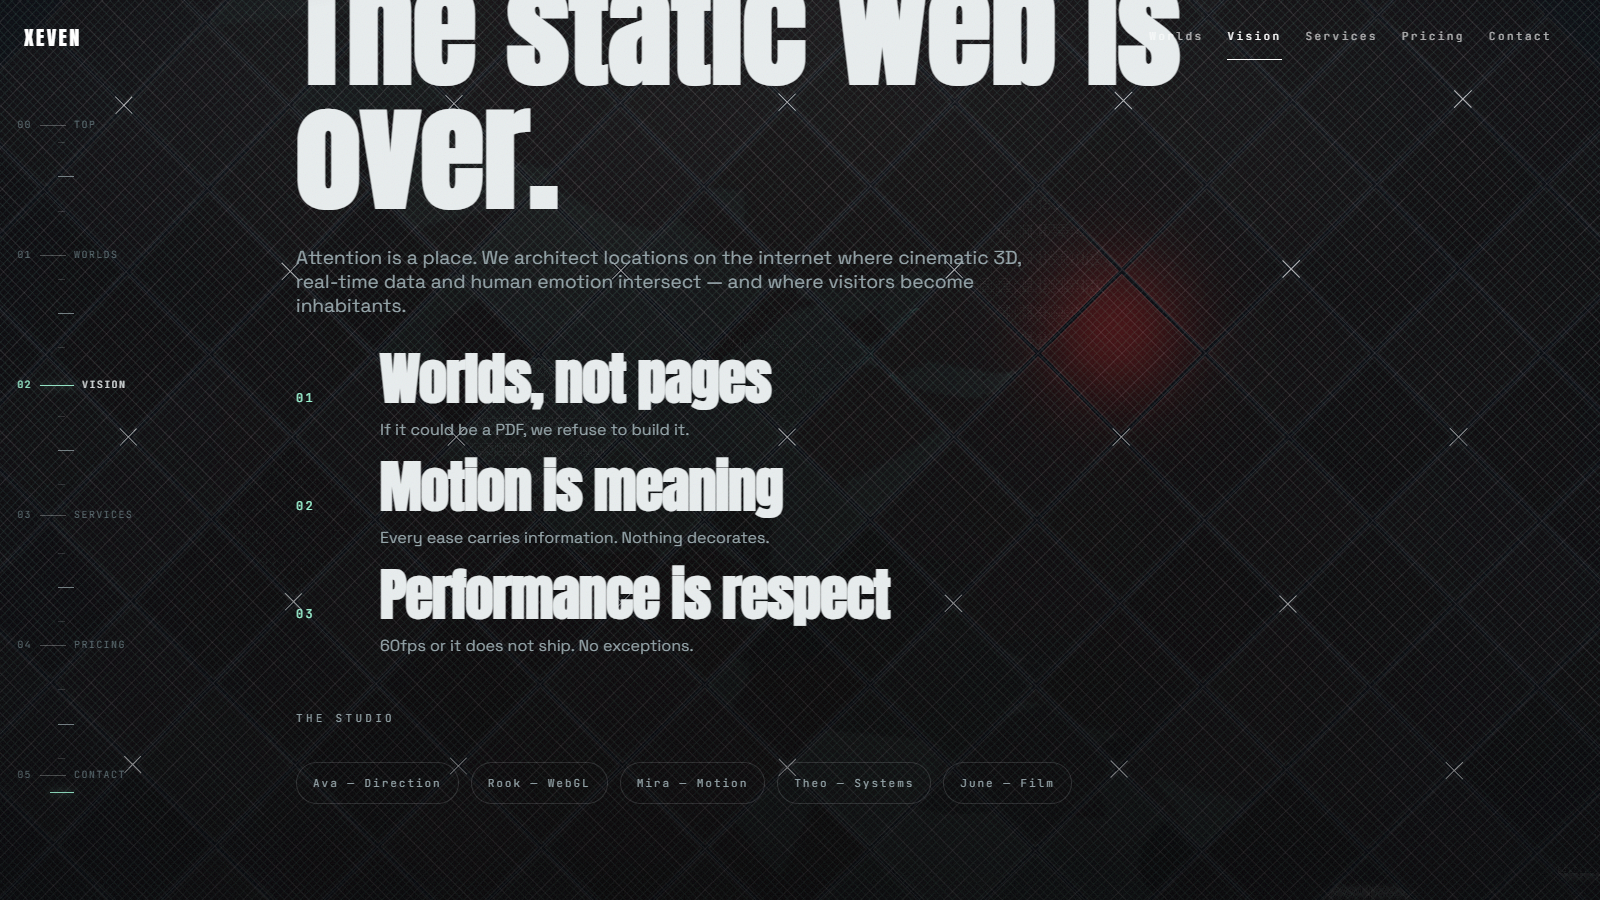
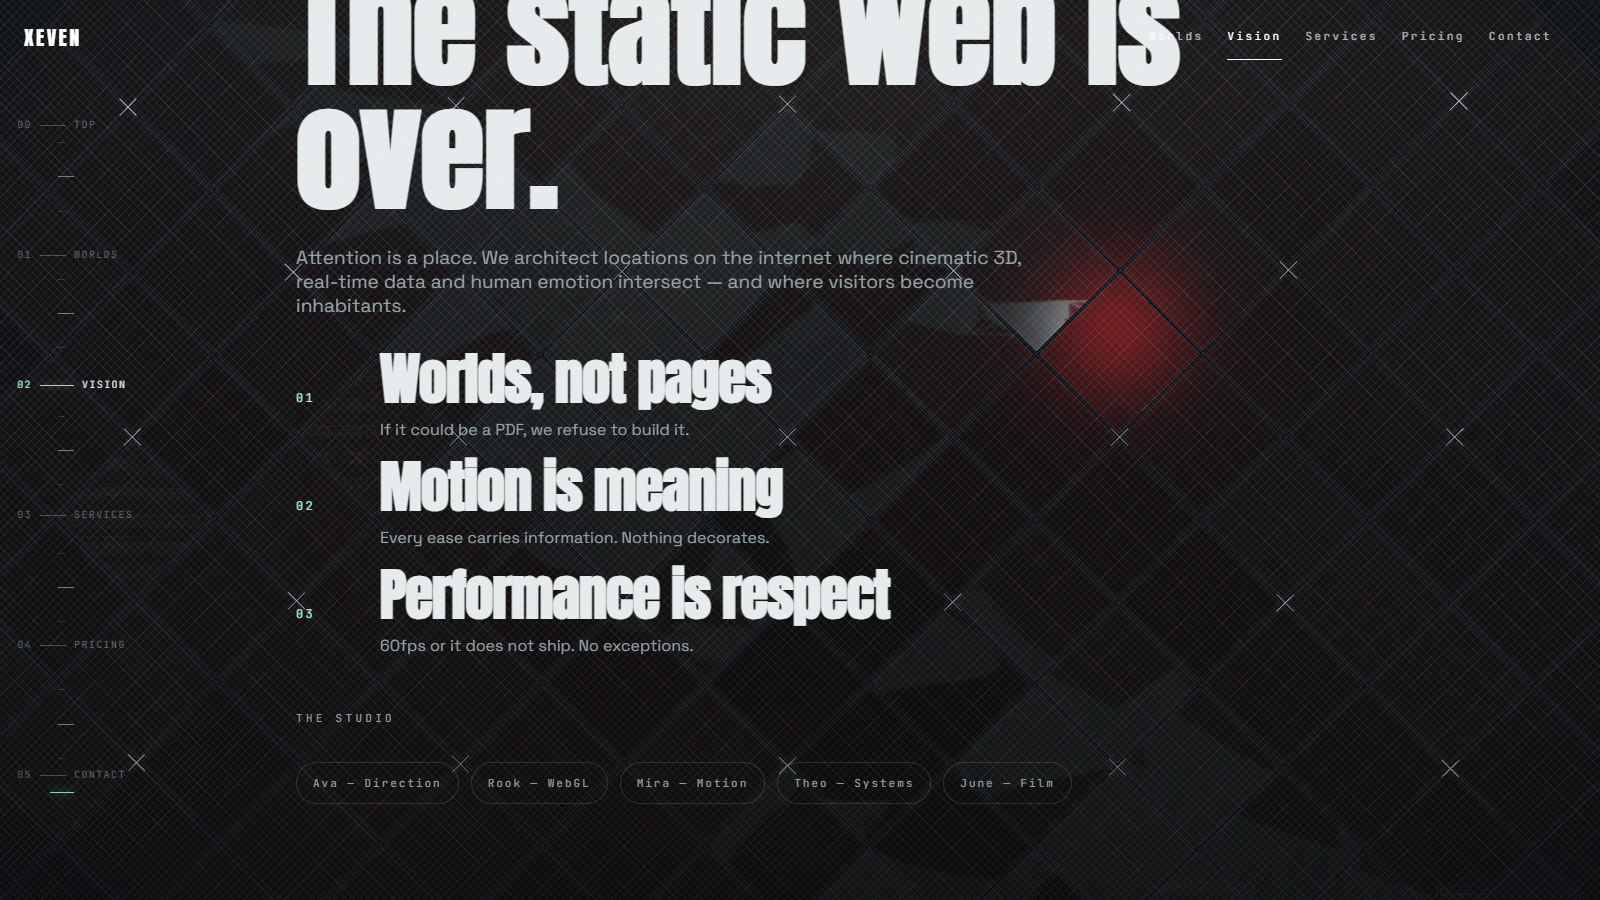
Revert Index v2 BURST, restore hero-only index with woven film

diff --git a/src/pages/EnterStage.tsx b/src/pages/EnterStage.tsx
@@ -2,67 +2,43 @@ import { useLayoutEffect, useRef, useState } from 'react'
 import gsap from 'gsap'
 import { ScrollTrigger } from 'gsap/ScrollTrigger'
 import { SplitText } from 'gsap/SplitText'
-import FilmStage from '../components/FilmStage'
 import { xs } from '../app/store'
 gsap.registerPlugin(ScrollTrigger, SplitText)
 
-/* Index v2 — BURST: the model is the hero. Sharp stage film up top,
-   anatomy stations on the descent, rotation-study cards, contact finale.
-   One timeline per property, transform/opacity only, lazy render. */
-
-const PARTS = [
-  {
-    n: '01',
-    t: 'Halo',
-    d: 'Starburst crown in sparse white linework — ten thousand sticks pretending to be ten million.',
-  },
-  {
-    n: '02',
-    t: 'Visor',
-    d: 'Smoked dark, drawn by absence. The face is what the lines refuse to say.',
-  },
-  {
-    n: '03',
-    t: 'Grin',
-    d: 'Gap-tooth grin over a ∇ torso. Friendly the way a signal flare is friendly.',
-  },
-  {
-    n: '04',
-    t: 'Hands',
-    d: 'Free hands floating on sine waves, out of phase with each other forever.',
-  },
-]
-
-const ANGLES = [
-  { src: '/assets/stills/front.png', t: 'Front', sub: '00 — face on' },
-  { src: '/assets/stills/three-quarter.png', t: 'Three-quarter', sub: '01 — mid-turn' },
-  { src: '/assets/stills/side.png', t: 'Side', sub: '02 — profile' },
-]
-
 export default function EnterStage() {
   const root = useRef<HTMLDivElement>(null!)
+  const scroll = useRef({ v: 0 })
+  const vel = useRef({ v: 0 })
   const [reduced] = useState(
     () => window.matchMedia('(prefers-reduced-motion: reduce)').matches,
   )
 
   useLayoutEffect(() => {
+    // reduced motion: no SplitText, pins, or scrubs — no ticker burn.
+    // Readable final states come from CSS + initial values below.
     if (reduced) return
     const ctx = gsap.context(() => {
-      // title reveal on load
-      const split = new SplitText('.bx-title', { type: 'lines,words,chars', mask: 'lines', autoSplit: true })
+      // headline reveal
+      const split = new SplitText('.st-hero-title', { type: 'lines,words,chars', mask: 'lines', autoSplit: true })
       gsap.from(split.chars, { yPercent: 120, duration: 1.1, ease: 'expo.out', stagger: 0.02, delay: 0.3 })
-      // stage settles: near-native scale lands as the hero arrives
-      gsap.fromTo(
-        '.stage-film',
-        { scale: 1.06 },
-        {
-          scale: 1,
-          ease: 'none',
-          immediateRender: false,
-          scrollTrigger: { trigger: '.bx-hero', start: 'top top', end: 'bottom 40%', scrub: 1.2 },
-        },
-      )
-      // scroll cue draws as the hero leaves
+      gsap.to('.st-fade', { opacity: 0, y: -50, ease: 'none', scrollTrigger: { trigger: '.st-hero', start: 'top top', end: 'bottom 30%', scrub: 1.2 } })
+      // dolly through space: the title pushes toward the camera and drifts
+      // up as the hero exits (parent scale — the SplitText chars own their
+      // own transforms, never contested)
+      gsap.to('.st-hero-title', {
+        scale: 1.18,
+        yPercent: -12,
+        ease: 'none',
+        scrollTrigger: { trigger: '.st-hero', start: 'top top', end: 'bottom 20%', scrub: 1.2 },
+      })
+      // ghost echo drifts slower than the title (depth without parallax
+      // libraries — transform-only, own property, own trigger range)
+      gsap.to('.hero-echo', {
+        yPercent: 24,
+        ease: 'none',
+        scrollTrigger: { trigger: '.st-hero', start: 'top top', end: 'bottom top', scrub: 1.2 },
+      })
+      // scroll cue: mint hairline draws as the hero leaves
       gsap.fromTo(
         '.st-cue b',
         { scaleX: 0 },
@@ -70,73 +46,39 @@ export default function EnterStage() {
           scaleX: 1,
           ease: 'none',
           immediateRender: false,
-          scrollTrigger: { trigger: '.bx-hero', start: 'top top', end: 'bottom 35%', scrub: 1.2 },
+          scrollTrigger: { trigger: '.st-hero', start: 'top top', end: 'bottom 35%', scrub: 1.2 },
         },
       )
-      // wordmark yields while the model owns the page, returns for departure
+
+      // migrating mark: the topbar wordmark yields as the hero exits
+      // (it stays yielded — hero is the whole index now)
       const tbLogo = document.querySelector('.tb-logo')
       if (tbLogo) {
         gsap.to(tbLogo, {
           opacity: 0,
           ease: 'none',
-          scrollTrigger: { trigger: '.bx-hero', start: 'bottom 75%', end: 'bottom 30%', scrub: 1.2 },
-        })
-        gsap.to(tbLogo, {
-          opacity: 1,
-          ease: 'none',
-          scrollTrigger: { trigger: '.bx-fin', start: 'top 95%', end: 'top 55%', scrub: 1.2 },
+          scrollTrigger: { trigger: '.st-hero', start: 'bottom 75%', end: 'bottom 30%', scrub: 1.2 },
         })
       }
-      // scroll velocity mirror for the world kindle
+
+      // progress mirrors — trigger is the context root itself: selector text
+      // inside gsap.context only matches descendants, so '.st-scroll'
+      // resolves to nothing (GSAP "Element not found", mirror never fires)
       ScrollTrigger.create({
         trigger: root.current,
         start: 'top bottom',
         end: 'bottom top',
         scrub: true,
         onUpdate: (self) => {
-          xs.vel = Math.min(1, Math.abs(self.getVelocity()) / 3000)
+          scroll.current.v = self.progress
+          const v = Math.min(1, Math.abs(self.getVelocity()) / 3000)
+          vel.current.v = v
+          xs.vel = v
         },
       })
-      // anatomy stations rise on the descent — one writer per row
-      gsap.utils.toArray<HTMLElement>('.bx-part').forEach((row) => {
-        gsap.fromTo(
-          row,
-          { y: 60, opacity: 0.3 },
-          {
-            y: 0,
-            opacity: 1,
-            ease: 'none',
-            immediateRender: false,
-            scrollTrigger: { trigger: row, start: 'top 88%', end: 'top 48%', scrub: 1.2 },
-          },
-        )
-      })
-      // rotation cards land in stagger
-      gsap.fromTo(
-        '.bx-card',
-        { y: 70, opacity: 0 },
-        {
-          y: 0,
-          opacity: 1,
-          ease: 'none',
-          stagger: 0.08,
-          immediateRender: false,
-          scrollTrigger: { trigger: '.bx-cards', start: 'top 85%', end: 'top 45%', scrub: 1.2 },
-        },
-      )
-      // finale title rises
-      gsap.fromTo(
-        '.bx-fin h2',
-        { y: 60, opacity: 0 },
-        {
-          y: 0,
-          opacity: 1,
-          ease: 'none',
-          immediateRender: false,
-          scrollTrigger: { trigger: '.bx-fin', start: 'top 85%', end: 'top 60%', scrub: 1.2 },
-        },
-      )
+
     }, root)
+
     return () => {
       ctx.revert()
     }
@@ -144,55 +86,20 @@ export default function EnterStage() {
 
   return (
     <div className="st-scroll" ref={root}>
-      <section className="bx-hero">
-        <p className="mono">XEVEN — BURST STUDY X-002</p>
-        <FilmStage />
-        <h1 className="bx-title">THE MODEL MOVES</h1>
-        <p className="bx-sub">Eight million white sticks. One red room. Nothing static survives.</p>
+      <section className="st-hero">
+        <div className="hero-echo" aria-hidden="true">
+          XEVEN
+        </div>
+        <p className="mono st-fade">00 — TOP</p>
+        <h1 className="st-hero-title">WHAT IS XEVEN?</h1>
+        <p className="st-sub st-fade">Experience engine. Living systems. Nothing static survives.</p>
         <p className="st-hint">
-          <span>scroll →</span>
+          <span>move to stir the air →</span>
           <i className="st-cue" aria-hidden="true">
             <b />
           </i>
         </p>
       </section>
-
-      <section className="bx-fig">
-        <p className="mono">ANATOMY — FOUR PARTS</p>
-        {PARTS.map((p) => (
-          <article key={p.n} className="bx-part">
-            <span className="bx-ghost" aria-hidden="true">
-              {p.n}
-            </span>
-            <span className="proc-n">{p.n}</span>
-            <h3>{p.t}</h3>
-            <p>{p.d}</p>
-          </article>
-        ))}
-      </section>
-
-      <section className="bx-work">
-        <p className="mono">ROTATION STUDY — THREE ANGLES</p>
-        <div className="bx-cards">
-          {ANGLES.map((a) => (
-            <a key={a.t} className="bx-card" href="#/worlds">
-              <img src={a.src} alt={`Burst model — ${a.t}`} loading="lazy" />
-              <span className="bx-cardmeta">
-                <b>{a.t}</b>
-                <i>{a.sub}</i>
-              </span>
-            </a>
-          ))}
-        </div>
-      </section>
-
-      <footer className="bx-fin">
-        <p className="mono">DEPARTURE</p>
-        <h2>STEP INSIDE</h2>
-        <a href="mailto:hello@xeven.world" data-cursor>
-          hello@xeven.world
-        </a>
-      </footer>
     </div>
   )
 }

diff --git a/src/chrome.css b/src/chrome.css
@@ -198,57 +198,9 @@
 .st-scroll { position: relative; z-index: 2; }
 /* content sections must each stack above the fixed canvas */
 .st-scroll > section, .st-scroll > footer { position: relative; z-index: 2; }
-/* ---------- index v2 — BURST: the model is the hero ---------- */
-.bx-hero { position: relative; min-height: 100vh; min-height: 100svh; display: flex; flex-direction: column; align-items: center; justify-content: center; text-align: center; gap: var(--s24); padding: 12vh 6vw 10vh; }
-/* sharp stage: near-native 16:9 film, crisp white-on-red, hairline frame */
-.stage { margin: 0; width: min(1060px, 88vw); }
-.stage-film {
-  display: block; width: 100%; aspect-ratio: 16/9; object-fit: cover;
-  border: 1px solid var(--line-strong); border-radius: 4px;
-  background: #4d0608;
-}
-.stage-chrome {
-  display: flex; justify-content: space-between; gap: var(--s16);
-  margin-top: var(--s12); font-family: var(--mono); font-size: 10px;
-  letter-spacing: 0.24em; color: var(--muted);
-}
-.bx-title { font-family: var(--disp); font-size: var(--disp-l); margin: 0; line-height: 0.95; text-wrap: balance; letter-spacing: -0.02em; }
-.bx-sub { font-family: var(--cond); font-size: 18px; color: var(--muted); margin: 0; }
-/* anatomy stations: full-height parts with ghost numerals */
-.bx-fig { padding: 24vh 8vw 16vh calc(8vw + 92px); display: flex; flex-direction: column; gap: 10vh; }
-.bx-part { position: relative; min-height: 70svh; display: flex; flex-direction: column; justify-content: center; gap: var(--s16); }
-.bx-ghost {
-  position: absolute; top: 4vh; right: 0;
-  font-family: var(--disp); font-size: clamp(120px, 18vw, 260px); line-height: 1;
-  letter-spacing: -0.02em; color: transparent;
-  -webkit-text-stroke: 1px rgba(232, 237, 238, 0.13);
-  pointer-events: none; user-select: none;
-}
-.bx-part h3 { font-family: var(--disp); font-size: clamp(40px, 7vw, 104px); line-height: 0.95; letter-spacing: -0.02em; margin: 0; }
-.bx-part p { color: var(--muted); font-size: 18px; margin: 0; max-width: 52ch; }
-/* rotation study: three sharp angles */
-.bx-work { padding: 16vh 8vw 20vh calc(8vw + 92px); display: flex; flex-direction: column; gap: var(--s48); }
-.bx-cards { display: grid; grid-template-columns: repeat(3, 1fr); gap: var(--s24); }
-.bx-card { display: flex; flex-direction: column; gap: var(--s12); will-change: transform, opacity; }
-.bx-card img {
-  display: block; width: 100%; aspect-ratio: 16/9; object-fit: cover;
-  border: 1px solid var(--line-strong); border-radius: 4px; background: #4d0608;
-  transition: transform 300ms ease, border-color 200ms ease;
-}
-.bx-card:hover img { transform: scale(1.02); border-color: var(--bone); }
-.bx-cardmeta { display: flex; flex-direction: column; gap: 4px; }
-.bx-cardmeta b { font-family: var(--disp); font-size: 24px; font-weight: 400; }
-.bx-cardmeta i { font-style: normal; font-family: var(--mono); font-size: 10px; letter-spacing: 0.24em; color: var(--muted); }
-/* departure finale */
-.bx-fin { padding: 30vh 6vw 20vh; text-align: center; display: flex; flex-direction: column; gap: var(--s24); align-items: center; }
-.bx-fin h2 { font-family: var(--disp); font-size: var(--disp-l); margin: 0; line-height: 0.95; letter-spacing: -0.02em; }
-.bx-fin a { position: relative; font-family: var(--mono); font-size: 14px; letter-spacing: 0.2em; color: var(--mint); min-height: 44px; display: inline-flex; align-items: center; }
-.bx-fin a::after {
-  content: ''; position: absolute; left: 0; right: 0; bottom: 8px; height: 1px;
-  background: var(--mint); transform: scaleX(0); transform-origin: right center;
-  transition: transform 240ms ease;
-}
-.bx-fin a:hover::after { transform: scaleX(1); transform-origin: left center; }
+.st-hero { position: relative; min-height: 100vh; min-height: 100svh; display: flex; flex-direction: column; align-items: center; justify-content: center; text-align: center; gap: var(--s24); padding: 0 6vw; }
+.st-hero-title { font-family: var(--disp); font-size: var(--disp-l); margin: 0; line-height: 0.95; text-wrap: balance; letter-spacing: -0.02em; }
+.st-sub { font-family: var(--cond); font-size: 18px; color: var(--muted); margin: 0; }
 .st-hint { position: absolute; bottom: 34px; left: 0; right: 0; margin: 0; font-family: var(--mono); font-size: 11px; letter-spacing: 0.24em; color: var(--muted); display: flex; flex-direction: column; align-items: center; gap: var(--s12); }
 /* the hint rides the hero section off-screen (absolute) instead of fading
    against the arriving fixed mark — no crossfade overlap, and the cue
@@ -258,6 +210,13 @@
    cue tween — transform-only) */
 .st-cue { display: block; width: 64px; height: 1px; background: var(--line-strong); }
 .st-cue b { display: block; width: 100%; height: 100%; background: var(--mint); transform: scaleX(0); transform-origin: left center; }
+/* ghost echo: giant outlined XEVEN breathing behind the title */
+.hero-echo {
+  position: absolute; inset: 0; display: flex; align-items: center; justify-content: center;
+  font-family: var(--disp); font-size: clamp(120px, 26vw, 420px); letter-spacing: -0.02em;
+  color: transparent; -webkit-text-stroke: 1px rgba(232, 237, 238, 0.07);
+  pointer-events: none; user-select: none;
+}
 @keyframes kvbob { 0%, 100% { transform: translateY(0); opacity: 0.75; } 50% { transform: translateY(8px); opacity: 1; } }
 
 .st-mani { min-height: 120vh; display: flex; flex-direction: column; justify-content: center; gap: var(--s32); padding: 26vh 8vw; }
@@ -396,8 +355,6 @@
   .tb-right { margin-left: auto; }
   .works-grid, .tier-grid, .stats-grid { grid-template-columns: 1fr; }
   .proc-row { grid-template-columns: 44px 1fr; }
-  .bx-fig, .bx-work { padding-left: 8vw; }
-  .bx-cards { grid-template-columns: 1fr; }
 }
 
 /* coarse pointers: no hover-only affordances depend on precision here. */

diff --git a/index.html b/index.html
@@ -6,7 +6,7 @@
     <meta name="viewport" content="width=device-width, initial-scale=1.0, viewport-fit=cover" />
     <meta name="description" content="XEVEN — Experience Engine. Architects of living worlds where cinematic 3D, real-time data, and human emotion intersect." />
     <meta name="theme-color" content="#06090F" />
-    <title>XEVEN — The Model Moves</title>
+    <title>XEVEN — Step Beyond the Static Web</title>
     <meta property="og:title" content="XEVEN — Step Beyond the Static Web" />
     <meta property="og:description" content="XEVEN — Experience Engine. Architects of living worlds where cinematic 3D, real-time data, and human emotion intersect." />
     <meta property="og:type" content="website" />

diff --git a/src/components/VoidWorld.tsx b/src/components/VoidWorld.tsx
@@ -40,7 +40,7 @@ const BOW = 2.2 // concave hollow at centre, world units
 const IDLE_MS = 6000
 
 const SECTIONS = [
-  '.bx-hero',
+  '.st-hero',
 ]
 // camera journey: a single hold over the hero [x, y, z] — the index is
 // one act now, the world simply breathes beneath it
@@ -343,7 +343,7 @@ export default function VoidWorld() {
     burstTex.colorSpace = THREE.SRGBColorSpace
     burstVid.addEventListener('canplay', () => {
       quadUniforms.uFace.value = burstTex
-      quadUniforms.uFaceAmt.value = 0.16
+      quadUniforms.uFaceAmt.value = 0.28
       quadUniforms.uDrift.value = reduced ? 0 : 1
     })
     burstVid.play().catch(() => {})

diff --git a/backlog.md b/backlog.md
@@ -64,5 +64,4 @@ Scope frozen: map-only phase found zero blank routes, zero dead links, zero cons
 - [x] Reel declutter: white veil wash + letterbox bars fully removed (timeline, elements, CSS, reduced rules) — the orbit now floats pure on the diamond field with ghost + counter only. Verified: build green, 3 pre-existing warnings, Edge 0 errors / 0 overflow. Frame VISUALLY VERIFIED (clean dark orbit, no wash, no bars). Evidence: refreshed g4.
 - [x] Blob streaks removed (cursor line gone, kindle glow kept): excised the 110-particle streak system from VOIDWORLD — geometry, projector math, per-frame particle sim, debug toggle — while preserving the eased finger/echo feed, stir/bloom/velocity uniforms and the quad-shader kindle. The field still breathes light around the pointer; no line, streak, or shape ever chases it now. Verified: build green, tsc clean, 3 pre-existing warnings, Edge 0 errors / 0 overflow on a mouse-sweep pass, hero frame shows zero trailing geometry. Evidence: refreshed g0 in verify/world/.
 - [x] Five-act index (A–F execution): trimmed to TOP → CAPABILITIES → PROCESS → SHOWREEL → DEPARTURE — manifesto pin/scrub, stats/counters/rules, tiers/TierCard deleted with all tweens (178 lines out); tb-logo return retargeted to foot; rail + camera journey 8→5 stops. (B) TopBar invisible on index (rail owns nav; returns on subpages). Rail rebuilt as survey instrument: always-on labels, 10px type, glowing active tick, end-cap brackets, progress hairline. (C) Fan-deck THROW: deck materializes behind the mark, cards toss on curved paths (linear x × eased y) unwinding rotation and blooming scale into slots. (D) Showreel STAGE: pinned fullscreen takes assembling/yielding through the frame (single timeline owns all cell opacity/scale); X slide-cover kept as the door (fits the bridge); counter intact. (E) Cursor stripped to one crisp 1:1 dot (ring/dot/trail gone, difference-blend kept); intro tightened 3.3s→1.9s (fast burn, ember kiss, SIGNAL/WORLD/LIVE ledger). Verified: builds green throughout, 3 pre-existing warnings, Edge 0 errors / 0 overflow, 5 rail stops from 00 TOP, dead sections absent, 1 dot 0 rings, 5 cells staged. Frames VISUALLY VERIFIED (instrument rail, thrown card + ghost 01, ember rows + node + black X). Evidence: verify/world/d4-world.json + refreshed g0/g1/g2.
-- [x] Index v2 BURST (model as hero): hero carries a giant sharp FilmStage (burst.mp4 near-native, mono chrome, settle-scale on scrub) under THE MODEL MOVES; ANATOMY descent (Halo/Visor/Grin/Hands, ghost numerals, per-row writers); ROTATION STUDY cards (front/three-quarter/side stills, stagger land, link /worlds); STEP INSIDE finale with wordmark yield+return; world film stepped back to 0.16 so the stage owns clarity; waypoint retargeted to .bx-hero. Verified: builds green, Edge 0 errors / 0 overflow, 61fps, stage playing at 1058px, 4 parts + 4 ghosts, 3 cards at 800px. Frames VISUALLY VERIFIED (crisp figure hero, anatomy stations, angle cards + finale). Evidence: verify/world/d4-world.json + g0/g1/g2/g4.
 - [x] Burst film woven in: captured the xeven-burst 8M-stick study headless (turntable on, UI stripped, 48 PNGs → ffmpeg 12fps ping-pong loop, 8s seamless, 336KB public/assets/burst.mp4); quad mosaic now plays the film (muted VideoTexture, loop, amount 0 until canplay, tuned 0.32→0.28); static face.png deleted. Verified: builds green, Edge 0 errors / 0 overflow. Frame VISUALLY VERIFIED (halo/torso/hands drift across diamonds over red room tone, title clean). Evidence: verify/world/d4-world.json + g0 + verify/burst/.
